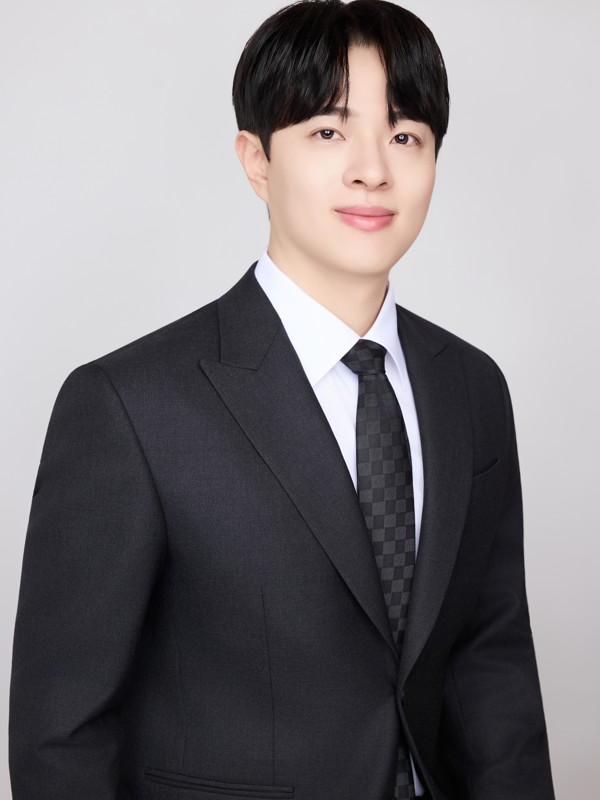
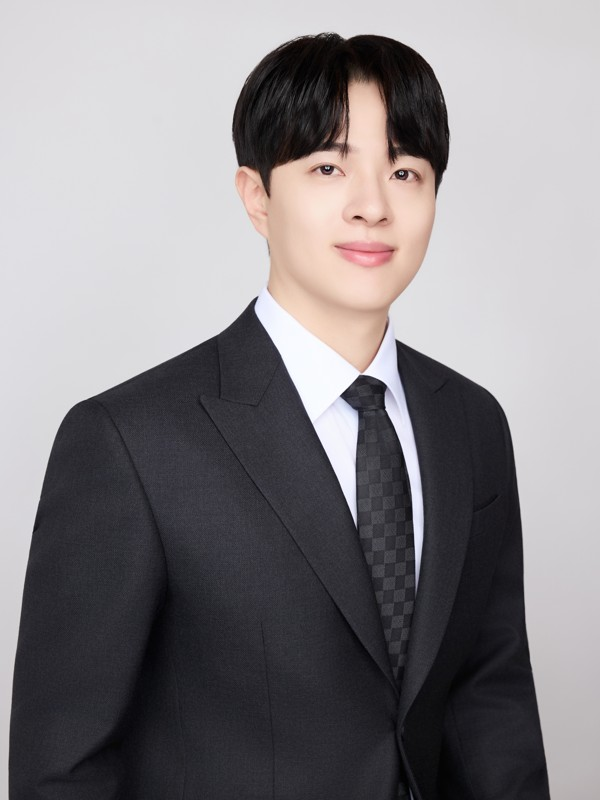
Photo: crop from top of frame; bio: primary/secondary fields restructured

diff --git a/_pages/about.md b/_pages/about.md
@@ -27,9 +27,12 @@ latest_posts:
   limit: 3
 ---
 
-I am a Ph.D. candidate in Economics at Korea University. My research
-interests are in **macroeconomics**, with a focus on **monetary policy,
-macroprudential policy, and financial stability**.
+I am a Ph.D. candidate in Economics at Korea University. My primary
+research fields are **macroeconomics and monetary economics**, with a
+focus on **monetary policy, financial stability, and macroprudential
+policy**. I also work on **text analysis, economic forecasting, labor
+economics, and regional economics**, including the labor-market effects
+of AI.
 
 My dissertation, *Financial Stability Mandate and Macroprudential Policy*,
 studies how central banks perceive and respond to financial instability,
